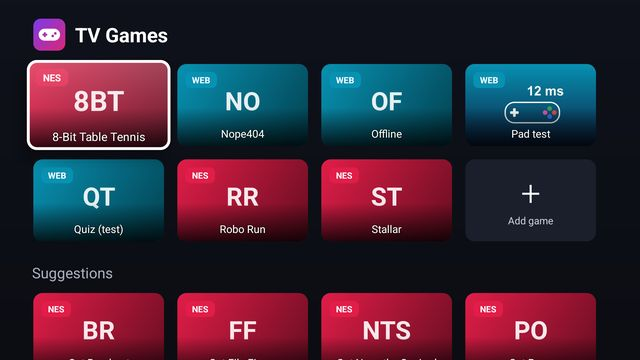
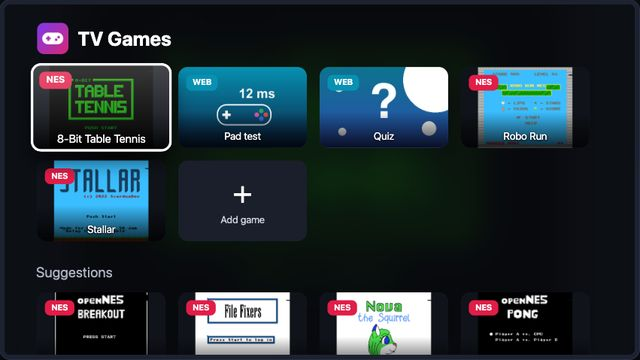
Demo picker: Games and Remote card screenshots recaptured from the current demos (catalog pictures, clean TV Home frame), filling the card
Claude-Session: https://claude.ai/code/session_01VniwkGfJmfjur9oWWJ2baz

diff --git a/docs/demo/index.html b/docs/demo/index.html
@@ -94,7 +94,7 @@
   var REL = 'https://github.com/HoangTran0410/tv-remote/releases/latest/download/';
   // the four apps: name, one line, its real icon and a real screenshot (vi, en), where to get it, and how its page sits in the hub
   var TABS = {
-    remote:   { n: 'TV Remote', vi: 'Điều khiển TV bằng điện thoại hoặc máy tính: phím, gõ chữ, mở app.', en: 'Control a TV from a phone or computer: keys, typing, apps.', dl: ['Tải app', 'Get the app'], href: '../#install', fill: true, contain: true },
+    remote:   { n: 'TV Remote', vi: 'Điều khiển TV bằng điện thoại hoặc máy tính: phím, gõ chữ, mở app.', en: 'Control a TV from a phone or computer: keys, typing, apps.', dl: ['Tải app', 'Get the app'], href: '../#install', fill: true },
     home:     { n: 'TV Home', vi: 'Màn hình chính riêng cho TV: gọn, không quảng cáo, hình nền đẹp.', en: 'A clean home screen for the TV: no ads, nice wallpapers.', dl: ['Tải TV Home', 'Get TV Home'], href: REL + 'tv-home.apk' },
     channels: { n: 'TV Channels', vi: 'Kênh truyền hình miễn phí của iptv-org, xem ngay trên TV.', en: "iptv-org's free TV channels, right on the TV.", dl: ['Tải TV Channels', 'Get TV Channels'], href: REL + 'tv-channels.apk', drop: true },
     games:    { n: 'TV Games', vi: 'Game retro và game web trên TV, điện thoại làm tay cầm.', en: 'Retro and web games on the TV, phones as pads.', dl: ['Tải TV Games', 'Get TV Games'], href: REL + 'tv-games.apk' },
